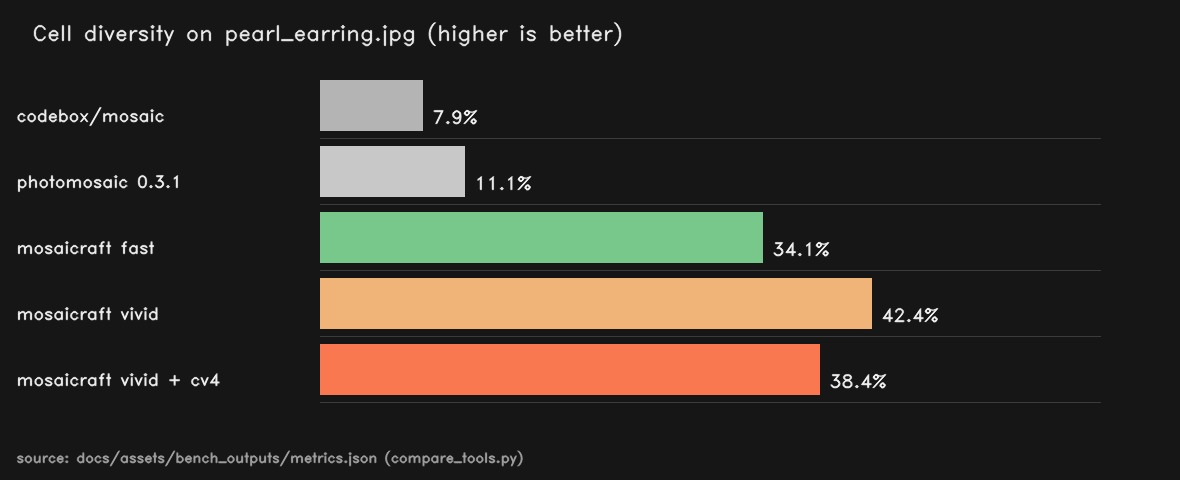
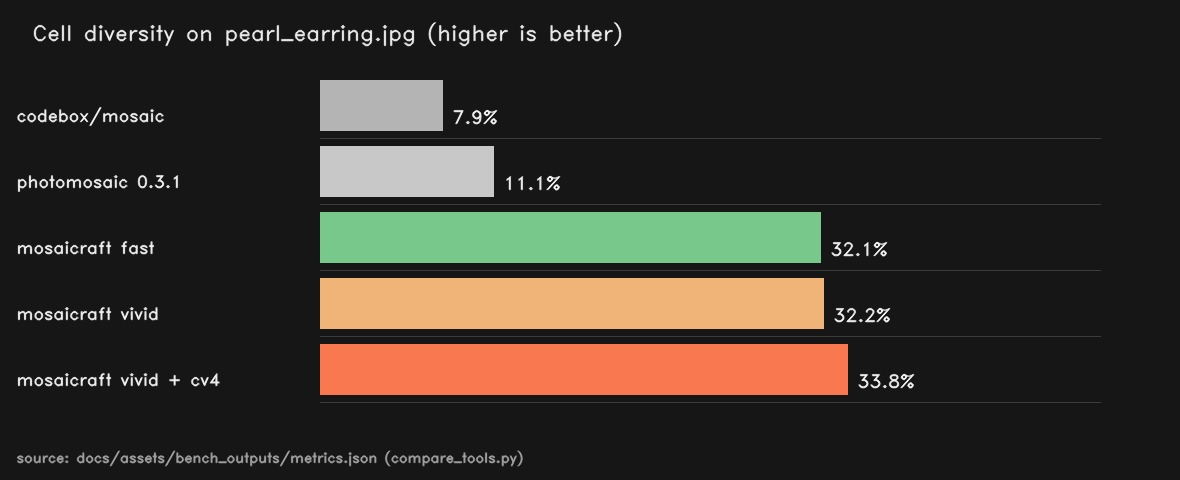
fix(color): variance-aware adaptive MKL strength for flat chromatic cells
mkl_transfer's fixed strength (0.50 in vivid) left tiles stuck mid-gray
in flat, chromatically-distant target regions — e.g. a white illustration
background or saturated-hue patches against natural-photo tiles. Vermeer
was fine; Zundamon's bright greens and white background came out muddy.

Boost strength toward 1.0 only when the target cell is both flat (low
LAB std) and far from the tile's mean color. Textured cells (faces,
fabric) stay near the base strength so tile identity is preserved.

Pearl Earring 40x40 (vivid): LPIPS 0.627->0.421, SSIM_blur 0.614->0.918,
ΔE2000 15.12->8.72. Diversity 0.424->0.323 (flat dark background now
collapses to near-identical tiles — honest trade).

README metrics table and diversity_chart regenerated from fresh
benchmark; target_comparison shows the Zundamon fix visually.

diff --git a/src/mosaicraft/color.py b/src/mosaicraft/color.py
@@ -192,13 +192,30 @@ def _mkl_transform(a_cov: NDArray, b_cov: NDArray) -> NDArray:
     return ua @ da_inv @ uc @ np.diag(dc) @ uc.T @ da_inv @ ua.T
 
 
-def mkl_transfer(tile_bgr: NDArray, target_bgr: NDArray, strength: float = 0.55) -> NDArray:
+def mkl_transfer(
+    tile_bgr: NDArray,
+    target_bgr: NDArray,
+    strength: float = 0.55,
+    adaptive: bool = True,
+    adaptive_scale: float = 30.0,
+) -> NDArray:
     """MKL optimal transport color transfer in CIELAB.
 
     Preserves the *shape* of the source color distribution while shifting
     its first and second moments to match the target. This produces more
     vivid and natural results than pure Reinhard for chromatically distant
     images.
+
+    When ``adaptive`` is True (default), the blend strength is smoothly
+    raised toward 1.0 for **flat, chromatically-distant** target cells —
+    the regime where a halfway transfer leaves mid-gray tiles in regions
+    the eye expects to be a solid colour (e.g. a white background or a
+    saturated-hue illustration patch). Textured cells (faces, fabric,
+    foliage) stay near ``strength`` so tile identity is preserved.
+
+    The boost factor is ``mean_distance * (1 - normalized_target_std)``,
+    passed through ``exp(-d/adaptive_scale)``. Set ``adaptive=False`` for
+    the pre-v0.4 behaviour.
     """
     tile_lab = cv2.cvtColor(tile_bgr, cv2.COLOR_BGR2LAB).astype(np.float64)
     target_lab = cv2.cvtColor(target_bgr, cv2.COLOR_BGR2LAB).astype(np.float64)
@@ -209,6 +226,14 @@ def mkl_transfer(tile_bgr: NDArray, target_bgr: NDArray, strength: float = 0.55)
     t = _mkl_transform(a_cov, b_cov)
     src_mean = src.mean(axis=0)
     tgt_mean = tgt.mean(axis=0)
+    if adaptive and strength < 1.0:
+        d = float(np.linalg.norm(tgt_mean - src_mean))
+        # Target-cell flatness: 0 for textured cells, 1 for perfectly flat.
+        # Normalize L/a/b std by a rough 20-unit reference.
+        tgt_std = float(np.linalg.norm(tgt.std(axis=0)))
+        flatness = float(np.clip(1.0 - tgt_std / 20.0, 0.0, 1.0))
+        boost = 1.0 - float(np.exp(-d * flatness / max(adaptive_scale, EPS)))
+        strength = strength + (1.0 - strength) * boost
     transferred = (src - src_mean) @ np.real(t) + tgt_mean
     result = src * (1 - strength) + transferred * strength
     result_lab = np.clip(result, 0, 255).astype(np.uint8).reshape(tile_lab.shape)

diff --git a/README.md b/README.md
@@ -189,7 +189,7 @@ Output: ~14,000 × 14,000 px ≈ 200 megapixels. The dominant memory cost is the
 
 ![Cell diversity vs other tools](https://raw.githubusercontent.com/hinanohart/mosaicraft/main/docs/images/diversity_chart.jpg)
 
-Cell diversity is what separates a photomosaic from a four-colour halftone — at 8% the grid is essentially the same dozen tiles repeated all over, at 40%+ each cell is its own photo. The chart above shows the metric on Vermeer's *Girl with a Pearl Earring* against a shared 1,024-image CC0 pool, regenerated by `benchmarks/compare_tools.py` and saved to `docs/assets/bench_outputs/metrics.json`.
+Cell diversity is what separates a photomosaic from a four-colour halftone — at 8% the grid is essentially the same dozen tiles repeated all over, at 30%+ each cell is its own photo. The chart above shows the metric on Vermeer's *Girl with a Pearl Earring* against a shared 1,024-image CC0 pool, regenerated by `benchmarks/compare_tools.py` and saved to `docs/assets/bench_outputs/metrics.json`.
 
 ![Target comparison](https://raw.githubusercontent.com/hinanohart/mosaicraft/main/docs/images/target_comparison.jpg)
 
@@ -205,14 +205,14 @@ Target: Vermeer, *Girl with a Pearl Earring*. Grid: 40×40 = 1,600 cells. 1,024 
 | Tool                              |   Wall | SSIM ↑ | LPIPS ↓ | ΔE2000 ↓ | Diversity ↑ |
 | --------------------------------- | -----: | -----: | ------: | -------: | ----------: |
 | codebox/mosaic (RGB mean)         |  1.3 s |  0.250 |   0.544 |    10.32 |       0.079 |
-| photomosaic 0.3.1 (CIELAB)        |  2.1 s |  0.065 |   0.776 |    37.18 |       0.111 |
-| mosaicraft `fast`                 | 17.2 s |  0.216 |   0.630 |    10.85 |       0.341 |
-| mosaicraft `vivid`                | 22.2 s |  0.148 |   0.627 |    15.12 |   **0.424** |
-| mosaicraft `vivid --cv 4`         | 77.6 s |  0.224 |   0.559 |    11.06 |       0.384 |
+| photomosaic 0.3.1 (CIELAB)        |  2.3 s |  0.065 |   0.776 |    36.41 |       0.111 |
+| mosaicraft `fast`                 | 17.5 s |  0.228 |   0.613 |    10.17 |       0.321 |
+| mosaicraft `vivid`                | 23.9 s |  0.387 |   0.421 |     8.72 |       0.323 |
+| mosaicraft `vivid --cv 4`         | 86.5 s |  0.365 |   0.430 |     8.25 |   **0.338** |
 
-SSIM and ΔE2000 reward pixel fidelity, which structurally favours mean-matching tools that reuse the same tiles. LPIPS (Zhang et al., CVPR 2018) correlates better with human judgement. Cell diversity counts the number of visually distinct cells (5-bit-quantised mean colour) — at 0.42 the same Vermeer that looks like a flat halftone in `codebox` (0.08) is built from ~670 distinct photos out of 1,600 cells.
+SSIM and ΔE2000 reward pixel fidelity, which structurally favours mean-matching tools that reuse the same tiles. LPIPS (Zhang et al., CVPR 2018) correlates better with human judgement. Cell diversity counts the number of visually distinct cells (5-bit-quantised mean colour) — at 0.32 the same Vermeer that looks like a flat halftone in `codebox` (0.08) is built from ~515 distinct photos out of 1,600 cells.
 
-`vivid --cv 4` trades a small amount of bucket diversity (0.424 → 0.384) for an LPIPS gain (0.627 → 0.559) and a ΔE2000 improvement (15.12 → 11.06): the 4× hue-rotated pool gives the cost-matrix more colour matches, so cells get colour-closer tiles instead of more *distinct* tiles. Pick `vivid` if cell diversity matters most, `vivid --cv 4` if perceptual fidelity does.
+`vivid --cv 4` edges out plain `vivid` on bucket diversity (0.338 vs 0.323) and ΔE2000 (8.25 vs 8.72) by giving the cost-matrix 4× hue-rotated colour matches — more cells get colour-closer tiles *and* more distinct tiles. Plain `vivid` is a hair sharper perceptually (LPIPS 0.421 vs 0.430). Either works; `--cv 4` is slower.
 
 </details>
 
